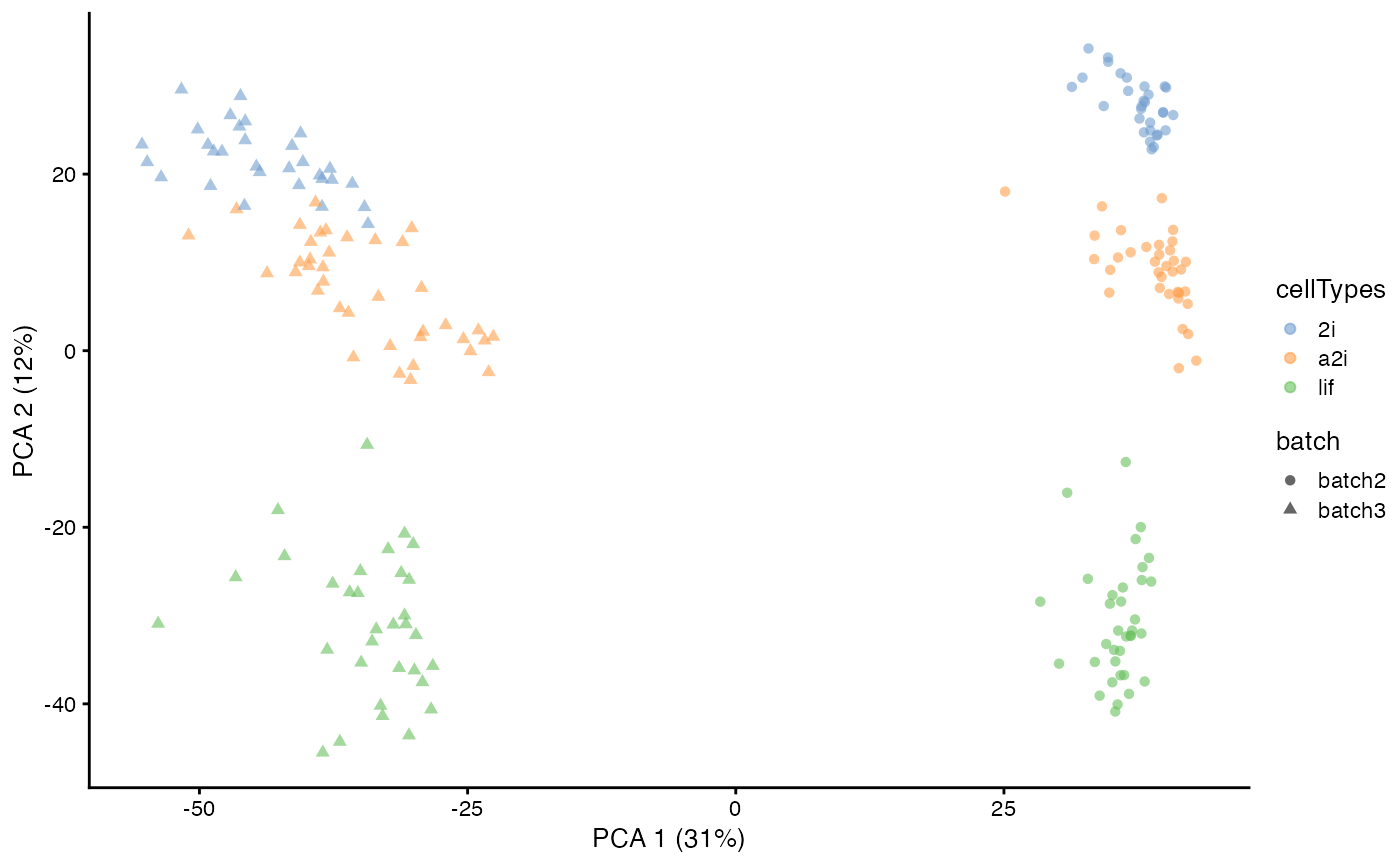
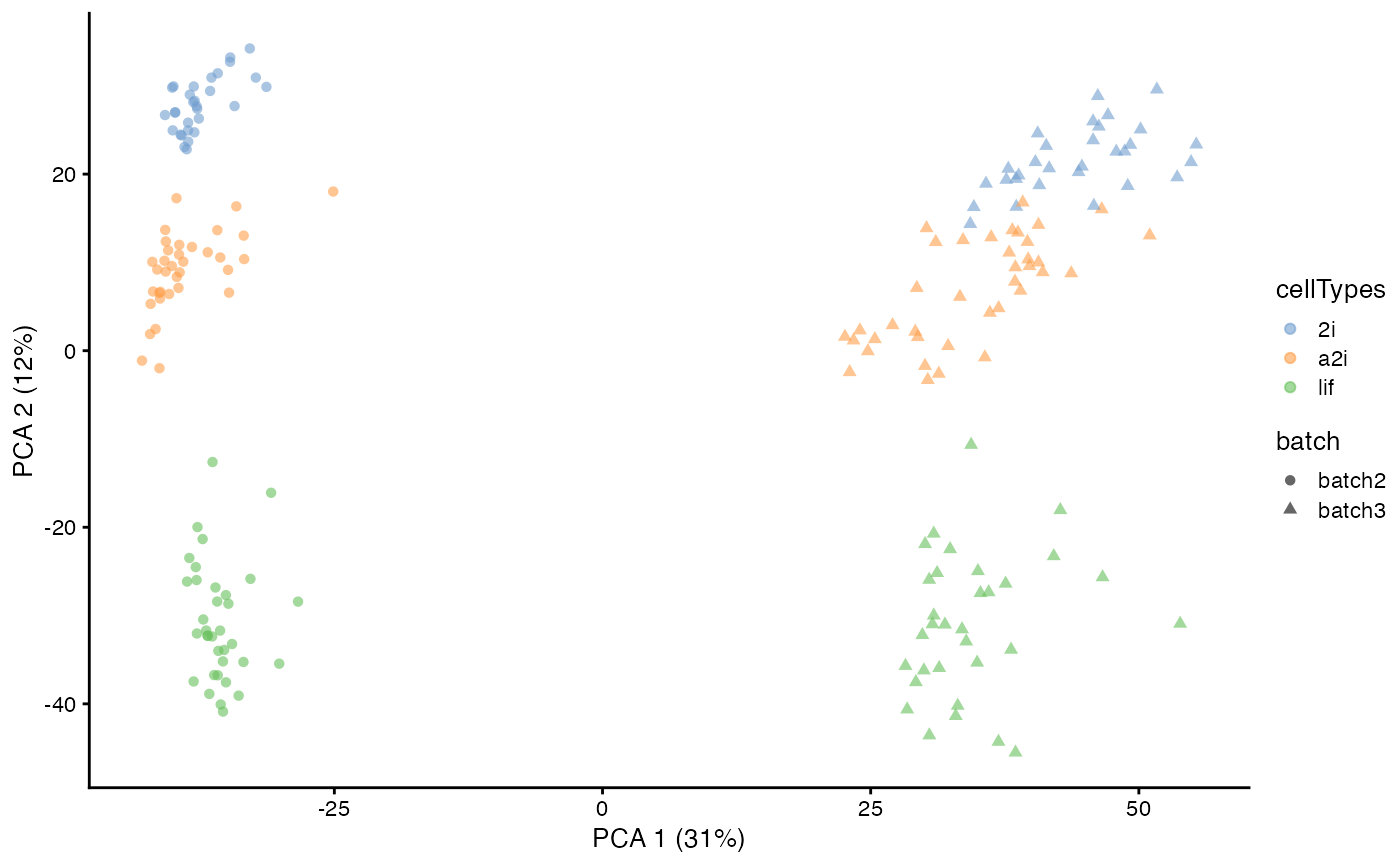
modify vignettee

diff --git a/docs/articles/an_intro_to_scMerge2.html b/docs/articles/an_intro_to_scMerge2.html
@@ -499,19 +499,95 @@ adjusted matrix.</p>
 <span><span class="fu">scater</span><span class="fu">::</span><span class="fu"><a href="https://rdrr.io/pkg/BiocGenerics/man/plotPCA.html" class="external-link">plotPCA</a></span><span class="op">(</span><span class="va">example_sce</span>, colour_by <span class="op">=</span> <span class="st">'cellTypes'</span>, shape <span class="op">=</span> <span class="st">'batch'</span><span class="op">)</span></span></code></pre></div>
 <p><img src="an_intro_to_scMerge2_files/figure-html/unnamed-chunk-14-1.png" width="700"></p>
 </div>
-<div class="section level5">
-<h5 id="scenario-2">Scenario 2<a class="anchor" aria-label="anchor" href="#scenario-2"></a>
-</h5>
-<p>scMerge2h can handle a flexible merging strategy input. For example,
-on level 1 above, we can only merge data for one batch.</p>
 </div>
+<div class="section level4">
+<h4 id="scenario-2">Scenario 2<a class="anchor" aria-label="anchor" href="#scenario-2"></a>
+</h4>
+<p>scMerge2h can handle a flexible merging strategy input. For example,
+on level 1 above, we can only merge data for one batch. As an example,
+we can start from modify the batch index list and hierarchical index
+list to remove the list of batch 2 on level 1.</p>
+<div class="sourceCode" id="cb17"><pre class="downlit sourceCode r">
+<code class="sourceCode R"><span><span class="va">h_idx_list2</span> <span class="op">&lt;-</span> <span class="va">h_idx_list</span></span>
+<span><span class="va">batch_list2</span> <span class="op">&lt;-</span> <span class="va">batch_list</span></span>
+<span><span class="va">h_idx_list2</span><span class="op">$</span><span class="va">level1</span><span class="op">$</span><span class="va">batch2</span> <span class="op">&lt;-</span> <span class="cn">NULL</span></span>
+<span><span class="va">batch_list2</span><span class="op">$</span><span class="va">level1</span><span class="op">$</span><span class="va">batch2</span> <span class="op">&lt;-</span> <span class="cn">NULL</span></span>
+<span><span class="fu"><a href="https://rdrr.io/r/base/print.html" class="external-link">print</a></span><span class="op">(</span><span class="va">h_idx_list2</span><span class="op">)</span></span>
+<span><span class="co">#&gt; $level1</span></span>
+<span><span class="co">#&gt; $level1$batch3</span></span>
+<span><span class="co">#&gt;   [1] 101 102 103 104 105 106 107 108 109 110 111 112 113 114 115 116 117 118</span></span>
+<span><span class="co">#&gt;  [19] 119 120 121 122 123 124 125 126 127 128 129 130 131 132 133 134 135 136</span></span>
+<span><span class="co">#&gt;  [37] 137 138 139 140 141 142 143 144 145 146 147 148 149 150 151 152 153 154</span></span>
+<span><span class="co">#&gt;  [55] 155 156 157 158 159 160 161 162 163 164 165 166 167 168 169 170 171 172</span></span>
+<span><span class="co">#&gt;  [73] 173 174 175 176 177 178 179 180 181 182 183 184 185 186 187 188 189 190</span></span>
+<span><span class="co">#&gt;  [91] 191 192 193 194 195 196 197 198 199 200</span></span>
+<span><span class="co">#&gt; </span></span>
+<span><span class="co">#&gt; </span></span>
+<span><span class="co">#&gt; $level2</span></span>
+<span><span class="co">#&gt; $level2[[1]]</span></span>
+<span><span class="co">#&gt;   [1]   1   2   3   4   5   6   7   8   9  10  11  12  13  14  15  16  17  18</span></span>
+<span><span class="co">#&gt;  [19]  19  20  21  22  23  24  25  26  27  28  29  30  31  32  33  34  35  36</span></span>
+<span><span class="co">#&gt;  [37]  37  38  39  40  41  42  43  44  45  46  47  48  49  50  51  52  53  54</span></span>
+<span><span class="co">#&gt;  [55]  55  56  57  58  59  60  61  62  63  64  65  66  67  68  69  70  71  72</span></span>
+<span><span class="co">#&gt;  [73]  73  74  75  76  77  78  79  80  81  82  83  84  85  86  87  88  89  90</span></span>
+<span><span class="co">#&gt;  [91]  91  92  93  94  95  96  97  98  99 100 101 102 103 104 105 106 107 108</span></span>
+<span><span class="co">#&gt; [109] 109 110 111 112 113 114 115 116 117 118 119 120 121 122 123 124 125 126</span></span>
+<span><span class="co">#&gt; [127] 127 128 129 130 131 132 133 134 135 136 137 138 139 140 141 142 143 144</span></span>
+<span><span class="co">#&gt; [145] 145 146 147 148 149 150 151 152 153 154 155 156 157 158 159 160 161 162</span></span>
+<span><span class="co">#&gt; [163] 163 164 165 166 167 168 169 170 171 172 173 174 175 176 177 178 179 180</span></span>
+<span><span class="co">#&gt; [181] 181 182 183 184 185 186 187 188 189 190 191 192 193 194 195 196 197 198</span></span>
+<span><span class="co">#&gt; [199] 199 200</span></span>
+<span><span class="fu"><a href="https://rdrr.io/r/base/print.html" class="external-link">print</a></span><span class="op">(</span><span class="va">batch_list2</span><span class="op">)</span></span>
+<span><span class="co">#&gt; $level1</span></span>
+<span><span class="co">#&gt; $level1$batch3</span></span>
+<span><span class="co">#&gt;   [1] 3 3 3 3 3 3 3 3 3 3 3 3 3 3 3 3 3 3 3 3 3 3 3 3 3 3 3 3 3 3 3 3 3 3 3 3 3</span></span>
+<span><span class="co">#&gt;  [38] 3 3 3 3 3 3 3 3 3 3 3 3 3 4 4 4 4 4 4 4 4 4 4 4 4 4 4 4 4 4 4 4 4 4 4 4 4</span></span>
+<span><span class="co">#&gt;  [75] 4 4 4 4 4 4 4 4 4 4 4 4 4 4 4 4 4 4 4 4 4 4 4 4 4 4</span></span>
+<span><span class="co">#&gt; </span></span>
+<span><span class="co">#&gt; </span></span>
+<span><span class="co">#&gt; $level2</span></span>
+<span><span class="co">#&gt; $level2[[1]]</span></span>
+<span><span class="co">#&gt;   [1] batch2 batch2 batch2 batch2 batch2 batch2 batch2 batch2 batch2 batch2</span></span>
+<span><span class="co">#&gt;  [11] batch2 batch2 batch2 batch2 batch2 batch2 batch2 batch2 batch2 batch2</span></span>
+<span><span class="co">#&gt;  [21] batch2 batch2 batch2 batch2 batch2 batch2 batch2 batch2 batch2 batch2</span></span>
+<span><span class="co">#&gt;  [31] batch2 batch2 batch2 batch2 batch2 batch2 batch2 batch2 batch2 batch2</span></span>
+<span><span class="co">#&gt;  [41] batch2 batch2 batch2 batch2 batch2 batch2 batch2 batch2 batch2 batch2</span></span>
+<span><span class="co">#&gt;  [51] batch2 batch2 batch2 batch2 batch2 batch2 batch2 batch2 batch2 batch2</span></span>
+<span><span class="co">#&gt;  [61] batch2 batch2 batch2 batch2 batch2 batch2 batch2 batch2 batch2 batch2</span></span>
+<span><span class="co">#&gt;  [71] batch2 batch2 batch2 batch2 batch2 batch2 batch2 batch2 batch2 batch2</span></span>
+<span><span class="co">#&gt;  [81] batch2 batch2 batch2 batch2 batch2 batch2 batch2 batch2 batch2 batch2</span></span>
+<span><span class="co">#&gt;  [91] batch2 batch2 batch2 batch2 batch2 batch2 batch2 batch2 batch2 batch2</span></span>
+<span><span class="co">#&gt; [101] batch3 batch3 batch3 batch3 batch3 batch3 batch3 batch3 batch3 batch3</span></span>
+<span><span class="co">#&gt; [111] batch3 batch3 batch3 batch3 batch3 batch3 batch3 batch3 batch3 batch3</span></span>
+<span><span class="co">#&gt; [121] batch3 batch3 batch3 batch3 batch3 batch3 batch3 batch3 batch3 batch3</span></span>
+<span><span class="co">#&gt; [131] batch3 batch3 batch3 batch3 batch3 batch3 batch3 batch3 batch3 batch3</span></span>
+<span><span class="co">#&gt; [141] batch3 batch3 batch3 batch3 batch3 batch3 batch3 batch3 batch3 batch3</span></span>
+<span><span class="co">#&gt; [151] batch3 batch3 batch3 batch3 batch3 batch3 batch3 batch3 batch3 batch3</span></span>
+<span><span class="co">#&gt; [161] batch3 batch3 batch3 batch3 batch3 batch3 batch3 batch3 batch3 batch3</span></span>
+<span><span class="co">#&gt; [171] batch3 batch3 batch3 batch3 batch3 batch3 batch3 batch3 batch3 batch3</span></span>
+<span><span class="co">#&gt; [181] batch3 batch3 batch3 batch3 batch3 batch3 batch3 batch3 batch3 batch3</span></span>
+<span><span class="co">#&gt; [191] batch3 batch3 batch3 batch3 batch3 batch3 batch3 batch3 batch3 batch3</span></span>
+<span><span class="co">#&gt; Levels: batch2 batch3</span></span></code></pre></div>
+<div class="sourceCode" id="cb18"><pre class="downlit sourceCode r">
+<code class="sourceCode R"><span><span class="va">scMerge2_res</span> <span class="op">&lt;-</span> <span class="fu"><a href="https://rdrr.io/pkg/scMerge/man/scMerge2h.html" class="external-link">scMerge2h</a></span><span class="op">(</span>exprsMat <span class="op">=</span> <span class="fu"><a href="https://rdrr.io/pkg/SingleCellExperiment/man/assays.html" class="external-link">logcounts</a></span><span class="op">(</span><span class="va">example_sce</span><span class="op">)</span>,</span>
+<span>                          batch_list <span class="op">=</span> <span class="va">batch_list2</span>,</span>
+<span>                          h_idx_list <span class="op">=</span> <span class="va">h_idx_list2</span>,</span>
+<span>                          ctl <span class="op">=</span> <span class="va">segList_ensemblGeneID</span><span class="op">$</span><span class="va">mouse</span><span class="op">$</span><span class="va">mouse_scSEG</span>,</span>
+<span>                          ruvK_list <span class="op">=</span> <span class="fu"><a href="https://rdrr.io/r/base/c.html" class="external-link">c</a></span><span class="op">(</span><span class="fl">2</span>, <span class="fl">5</span><span class="op">)</span>,</span>
+<span>                          verbose <span class="op">=</span> <span class="cn">FALSE</span><span class="op">)</span></span></code></pre></div>
+<div class="sourceCode" id="cb19"><pre class="downlit sourceCode r">
+<code class="sourceCode R"><span><span class="fu"><a href="https://rdrr.io/pkg/SummarizedExperiment/man/SummarizedExperiment-class.html" class="external-link">assay</a></span><span class="op">(</span><span class="va">example_sce</span>, <span class="st">"scMerge2"</span><span class="op">)</span> <span class="op">&lt;-</span> <span class="va">scMerge2_res</span><span class="op">[[</span><span class="fu"><a href="https://rdrr.io/r/base/length.html" class="external-link">length</a></span><span class="op">(</span><span class="va">h_idx_list</span><span class="op">)</span><span class="op">]</span><span class="op">]</span></span>
+<span><span class="fu"><a href="https://rdrr.io/r/base/Random.html" class="external-link">set.seed</a></span><span class="op">(</span><span class="fl">2022</span><span class="op">)</span></span>
+<span><span class="va">example_sce</span> <span class="op">&lt;-</span> <span class="fu">scater</span><span class="fu">::</span><span class="fu"><a href="https://rdrr.io/pkg/BiocSingular/man/runPCA.html" class="external-link">runPCA</a></span><span class="op">(</span><span class="va">example_sce</span>, exprs_values <span class="op">=</span> <span class="st">'scMerge2'</span><span class="op">)</span>                           </span>
+<span><span class="fu">scater</span><span class="fu">::</span><span class="fu"><a href="https://rdrr.io/pkg/BiocGenerics/man/plotPCA.html" class="external-link">plotPCA</a></span><span class="op">(</span><span class="va">example_sce</span>, colour_by <span class="op">=</span> <span class="st">'cellTypes'</span>, shape <span class="op">=</span> <span class="st">'batch'</span><span class="op">)</span></span></code></pre></div>
+<p><img src="an_intro_to_scMerge2_files/figure-html/unnamed-chunk-17-1.png" width="700"></p>
 </div>
 </div>
 </div>
 <div class="section level2">
 <h2 id="session-info">Session Info<a class="anchor" aria-label="anchor" href="#session-info"></a>
 </h2>
-<div class="sourceCode" id="cb17"><pre class="downlit sourceCode r">
+<div class="sourceCode" id="cb20"><pre class="downlit sourceCode r">
 <code class="sourceCode R"><span><span class="fu"><a href="https://rdrr.io/r/utils/sessionInfo.html" class="external-link">sessionInfo</a></span><span class="op">(</span><span class="op">)</span></span>
 <span><span class="co">#&gt; R version 4.2.1 (2022-06-23)</span></span>
 <span><span class="co">#&gt; Platform: x86_64-apple-darwin17.0 (64-bit)</span></span>
